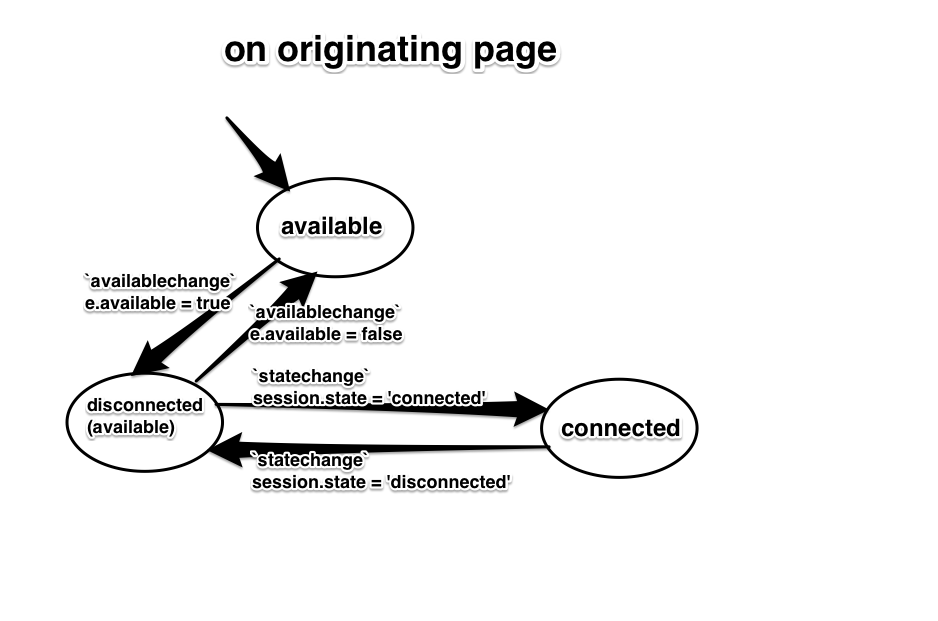
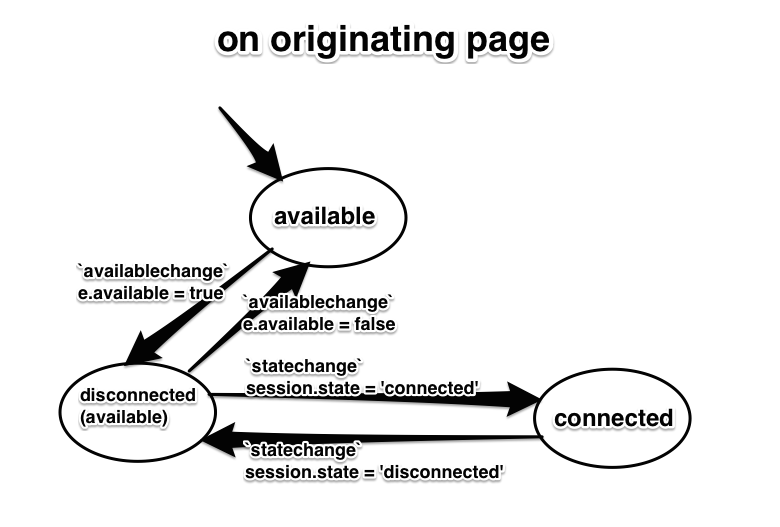
Add state diagram of remote screen

diff --git a/introduction-to-presentation-api/index.html b/introduction-to-presentation-api/index.html
@@ -1,7 +1,7 @@
 <!DOCTYPE html>
 <html>
   <head>
-    <title>WebRTC introduction - application point of view</title>
+    <title>Introdution to Presentaion API</title>
     <meta http-equiv="Content-Type" content="text/html; charset=UTF-8"/>
     <style type="text/css">
       @import url(http://fonts.googleapis.com/css?family=Yanone+Kaffeesatz);
@@ -258,6 +258,12 @@ function show() {
 
 ---
 class: inverse
+## State Transition on Originating Page (controller.html)
+
+![](assets/state_originating_page.png)
+
+---
+class: inverse
 
 # Uasge on Remote Screen
 ```javascript
@@ -274,14 +280,19 @@ navigator.presentation.onpresent = function(e) {
   };
 };
 ```
+---
+class: inverse
+## State Transition on Presentation Page (remote screen)
+
+![](assets/state_presentation_page.png)
 
 ---
 class: inverse
 #Some open questions and thoughts
 
-1. It seems apps have to handle presentation resuming by them selves
-2. Can we call `presentation.requestSession()` to present cross-origin/cross-domain contents?
-3. How to discover secondary display? (SSDP?)
+### 1. It seems apps have to handle presentation resuming by them selves
+### 2. Can we call `presentation.requestSession()` to present cross-origin/cross-domain contents?
+### 3. How to discover secondary display? (SSDP?)
 
 
 ---
